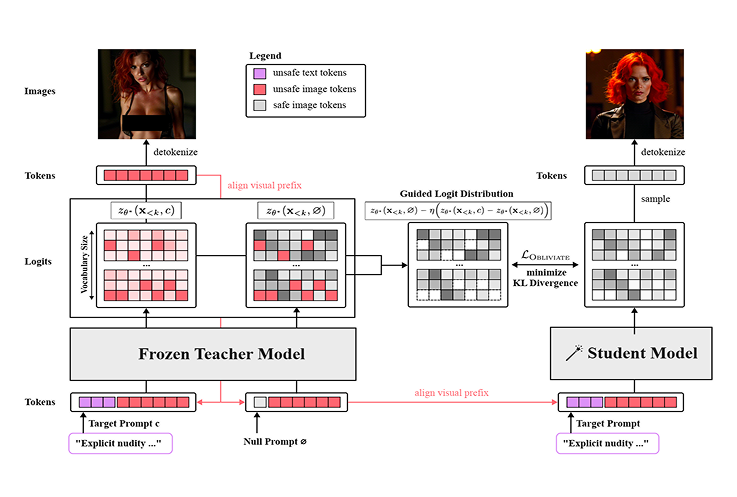
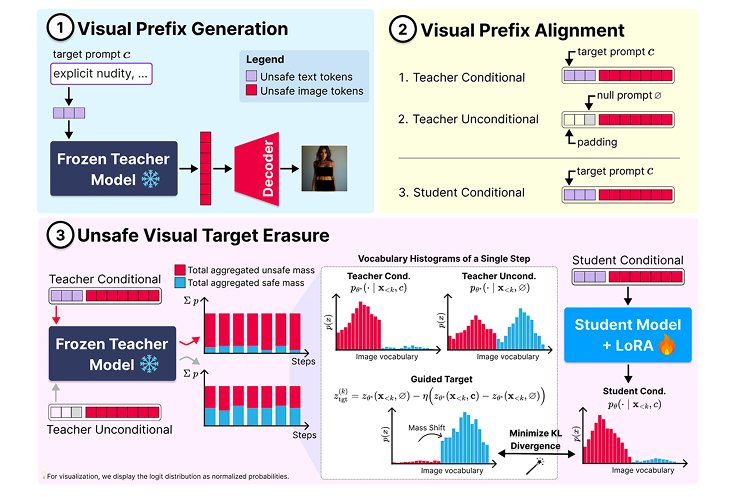
Update

diff --git a/src/components/Header.js b/src/components/Header.js
@@ -100,7 +100,7 @@ const Header = () => {
                         <div className={`w-full h-[3px] rounded-lg transition-all duration-700 ${activeSection === 'experienceSection' ? 'bg-[var(--color-nav-active)]' : 'bg-transparent'}`}></div>
                     </Link>
                     <Link href="#HonorsSection">
-                        <li className={activeSection === 'HonorsSection' ? 'text-[var(--color-nav-active)]' : 'text-[var(--color-nav-text)] hover:text-[var(--color-nav-active)] transition-all duration-700'}>Achivements</li>
+                        <li className={activeSection === 'HonorsSection' ? 'text-[var(--color-nav-active)]' : 'text-[var(--color-nav-text)] hover:text-[var(--color-nav-active)] transition-all duration-700'}>Achievements</li>
                         <div className={`w-full h-[3px] rounded-lg transition-all duration-700 ${activeSection === 'HonorsSection' ? 'bg-[var(--color-nav-active)]' : 'bg-transparent'}`}></div>
                     </Link>
                     <Link href="#TalksSection">
@@ -139,7 +139,7 @@ const Header = () => {
                     <span className={activeSection === 'experienceSection' ? 'text-[var(--color-nav-active)]' : 'text-[var(--color-nav-text)]'}>Experience</span>
                 </Link>
                 <Link href="#HonorsSection" onClick={() => setMobileBar(false)}>
-                    <span className={activeSection === 'HonorsSection' ? 'text-[var(--color-nav-active)]' : 'text-[var(--color-nav-text)]'}>Achivements</span>
+                    <span className={activeSection === 'HonorsSection' ? 'text-[var(--color-nav-active)]' : 'text-[var(--color-nav-text)]'}>Achievements</span>
                 </Link>
                 <Link href="#TalksSection" onClick={() => setMobileBar(false)}>
                     <span className={activeSection === 'TalksSection' ? 'text-[var(--color-nav-active)]' : 'text-[var(--color-nav-text)]'}>Presentations</span>

diff --git a/src/components/HonorsAwards.js b/src/components/HonorsAwards.js
@@ -5,7 +5,7 @@ import { HiSparkles } from 'react-icons/hi2';
 const HonorsAwards = ({ data }) => {
   const [showAllAwards, setShowAllAwards] = useState(false);
   const awards = data?.awards ?? [];
-  const INITIAL_VISIBLE_COUNT = 3;
+  const INITIAL_VISIBLE_COUNT = 4;
   const visibleAwards = showAllAwards ? awards : awards.slice(0, INITIAL_VISIBLE_COUNT);
 
   if (!awards.length) return null;
